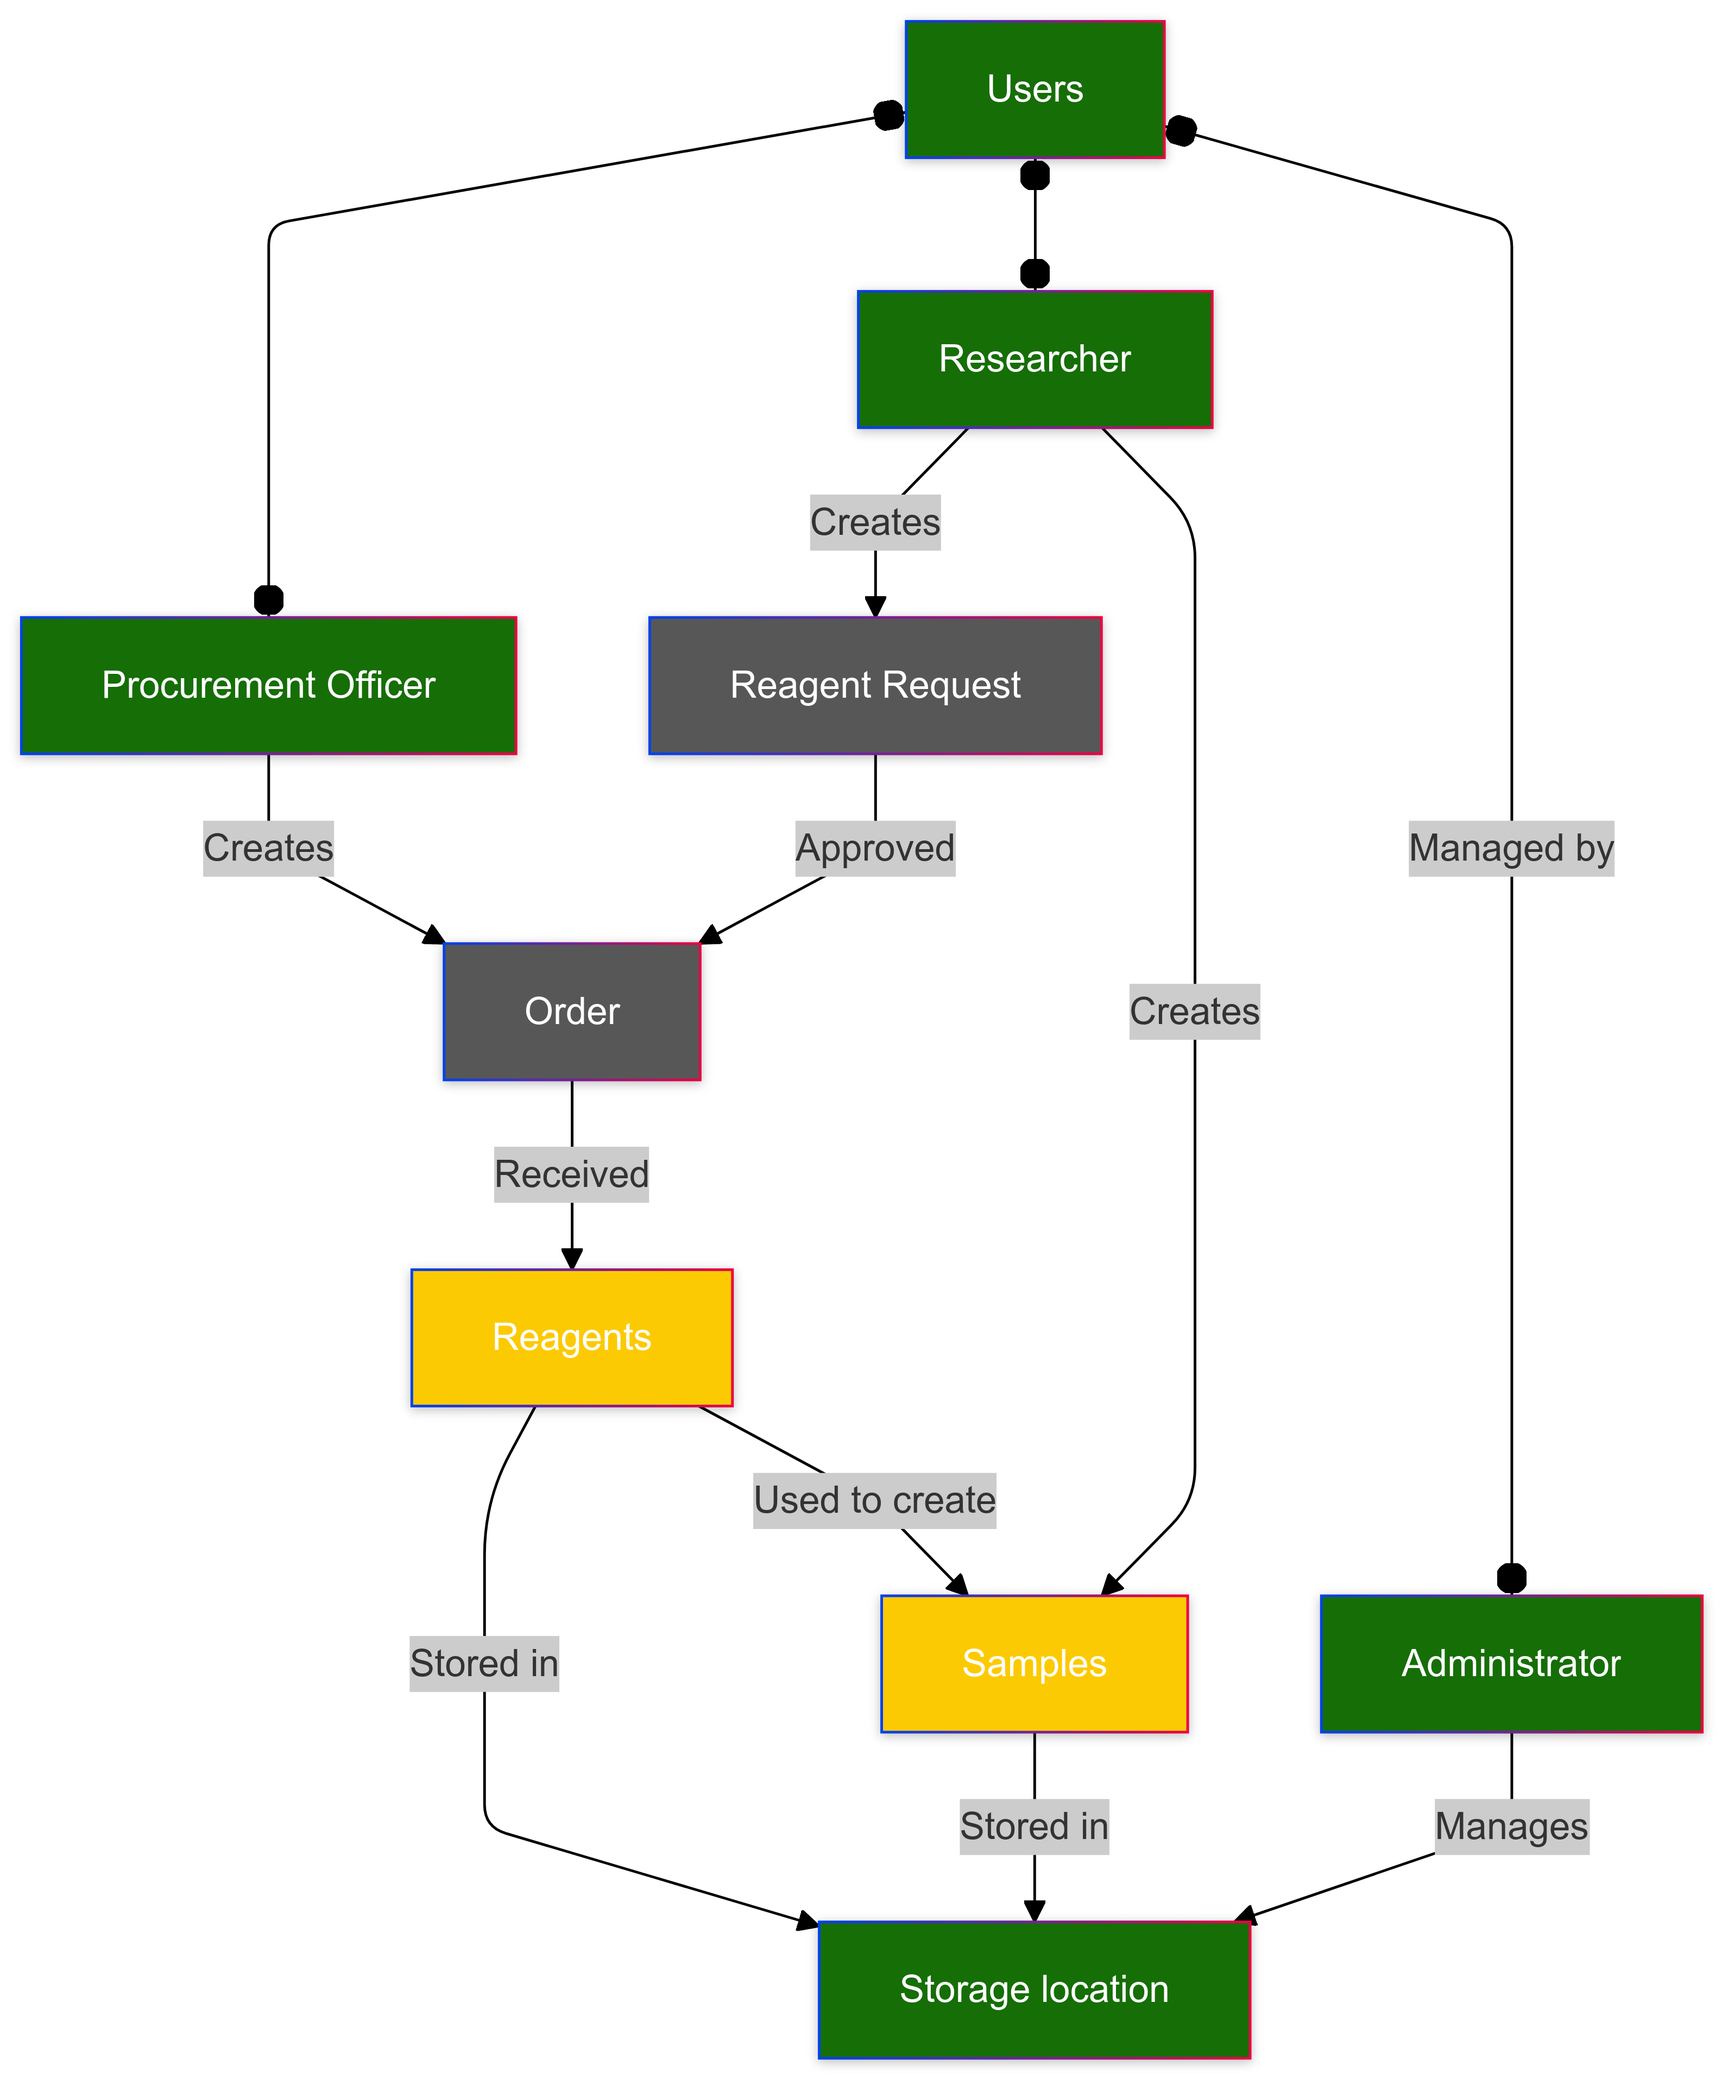
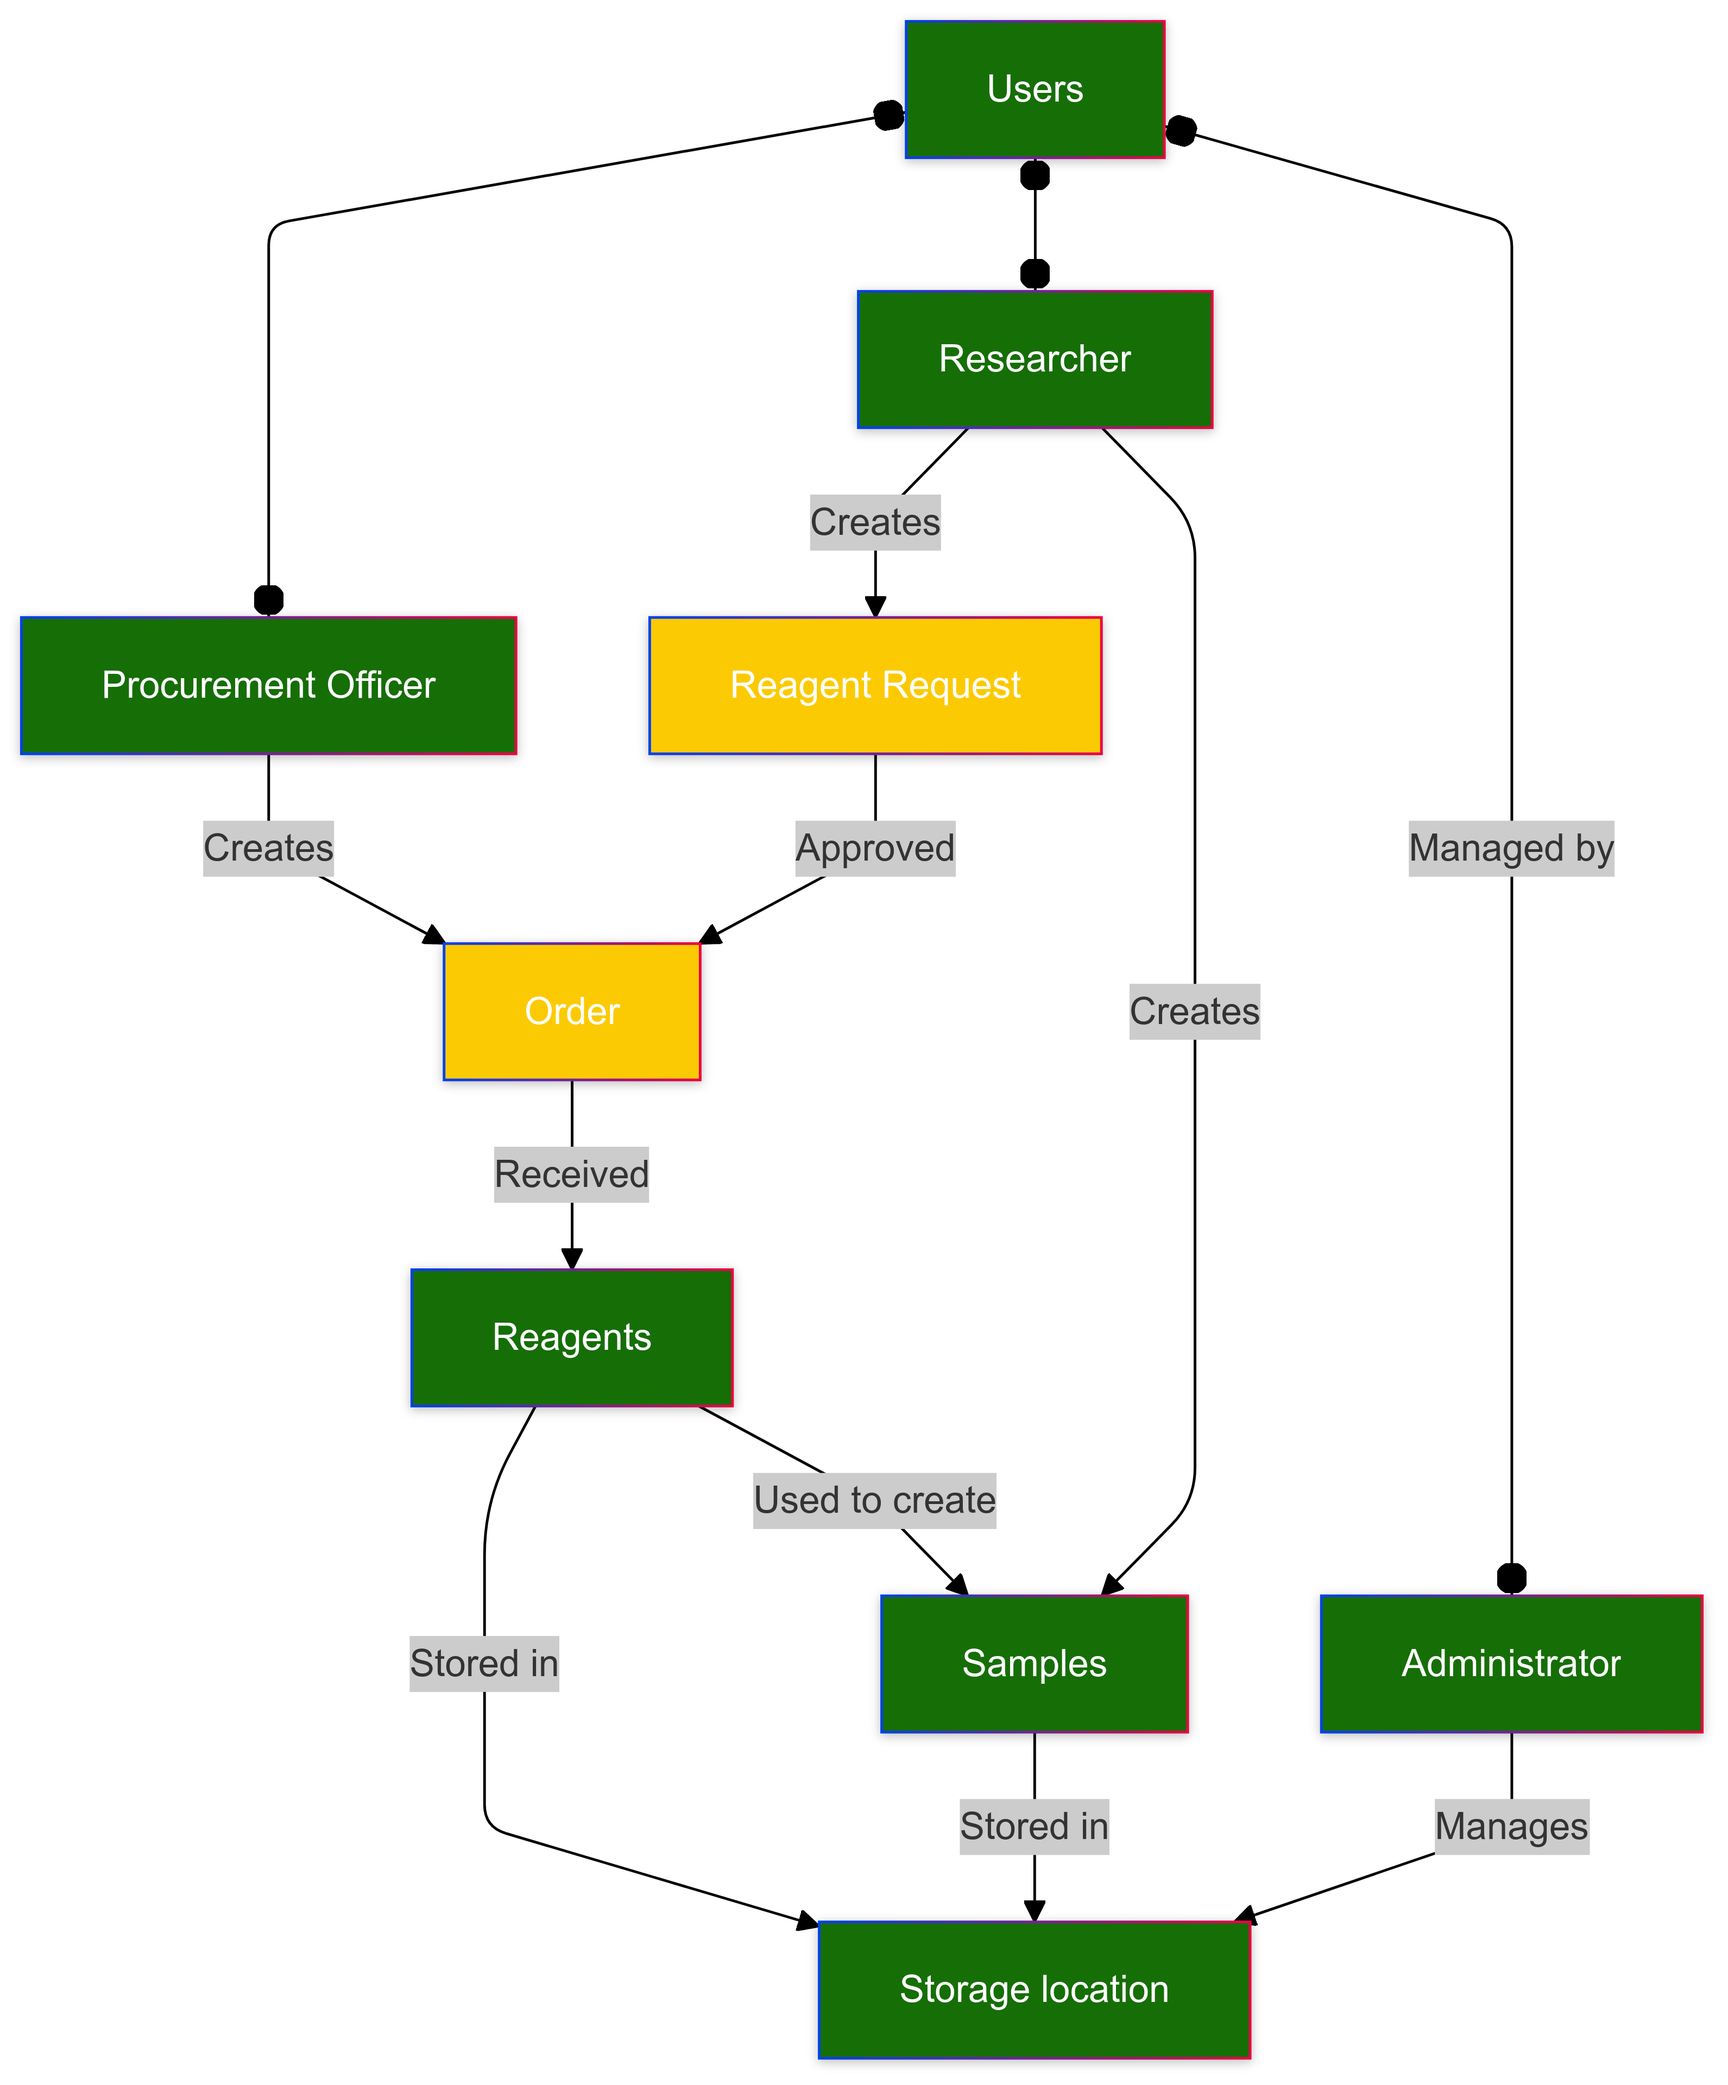
Docs: update diagrams and readme

diff --git a/README.md b/README.md
@@ -45,6 +45,7 @@ This project utilizes the following tools and libraries:
 - **React Router** for handling navigation and protected routes.
 - **TypeScript** for static typing.
 - **MUI** for building responsive, accessible, and modern UI components.
+- **Smiles Drawer** for parsing and rendering SMILES strings into graphical representations of chemical structures.
 - **Vite** for fast builds and hot module replacement during development.
 
 ## Diagrams
@@ -103,9 +104,11 @@ graph LR;
 
     %% Reagents and samples management
     RSM{{Reagents and samples management}} --> UserRSMQ((Any Role))
+    RSM-->UserRSMR((Researcher))
+
     UserRSMQ --> SeeReagentsSamples(See reagents and samples list)
-    UserRSMQ --> AddReagentsSamples(Add reagents in the system)
-    UserRSMQ --> EditReagentsSamples(Edit reagents in the system)
+    UserRSMR --> AddReagentsSamples(Add reagents in the system)
+    UserRSMR --> EditReagentsSamples(Edit reagents in the system)
 
 
 
@@ -126,7 +129,7 @@ graph LR;
     %% Applying role class
     class AdminUM,AdminSM admin;
     class OfficerRRM,OfficerOM officer;
-    class ResearcherRRM researcher;
+    class ResearcherRRM,UserRSMR researcher;
     class User,UserUM,UserSM,UserRSM,UserSMResOfficer,UserRSMQ user;
 
     %% Applying priority class
@@ -181,9 +184,9 @@ classDef green fill:#166e07, color:#ffffff;
 classDef yellow fill:#fcca03, color:#ffffff;
 classDef grey fill:#575757, color:#ffffff;
 
-class U,ADM,RSR,PRCR,SL green;
-class R,S yellow;
-class RR,O grey;
+class U,ADM,RSR,PRCR,SL,R,S green;
+class O,RR yellow;
+class dashboard grey;
 ```
 
 
@@ -192,57 +195,87 @@ class RR,O grey;
 ```mermaid
 erDiagram
 
+    %% Types (Role and Compound as Enum)
+    role {
+        enum Administrator
+        enum ProcurementOfficer
+        enum Researcher
+    }
 
-    reagents {
-        int id
-        varchar name
-        text description
-        text structure_smiles
+    compound {
+        enum Reagent
+        enum Sample
+    }
+
+    %% Tables
+    substance {
+        serial id PK "Unique identifier for each reagent"
+        varchar name "Name of the reagent"
+        text description "Description of the reagent"
+        text structure "Unique structure of the reagent"
+        compound category "Category of the substance, either Reagent or Sample"
+        date expiration_date "Expiration date of the substance"
+        boolean is_expired "Indicates whether the substance is expired"
     }
 
     storage {
-        int id
-        varchar room
-        text description
+        serial id PK "Unique identifier for each storage location"
+        varchar room "Room where reagents are stored"
+        text description "Description of the storage room"
     }
 
     storage_location {
-        int id
-        int room_id
-        varchar location
+        serial id PK "Unique identifier for each storage location"
+        integer room_id FK "References the storage room"
+        varchar location "Specific location within the storage room"
     }
 
     storage_content {
-        int id
-        int room_id
-        int location_id
-        int substance_id
+        serial id PK "Unique identifier for each storage content entry"
+        integer location_id FK "References the specific location within the storage room"
+        integer substance_id FK "References the substance"
+        integer quantity_left "Quantity of the substance left in stock"
+        varchar unit "The amount of space a substance occupies"
+        numeric price_per_unit "Price of substance per unit"
     }
 
     users {
-        int id
-        varchar username
-        varchar first_name
-        varchar last_name
-        varchar email
-        char password_hash
-        role role
-        timestamp created_at
-        timestamptz last_login
+        serial id PK "Unique identifier for each user"
+        varchar username "Unique username for each user"
+        varchar first_name "First name of the user"
+        varchar last_name "Last name of the user"
+        varchar email "Email address of the user"
+        char password_hash "Hashed password of the user"
+        role role "Role of the user in the system"
+        timestamp created_at "Timestamp when the user was created"
+        timestamptz last_login "Timestamp of the user's last login"
     }
 
-
-    role {
-        type Administrator
-        type ProcurementOfficer
-        type Researcher
+    reagent {
+        integer substance_id PK, FK "Reference to specific chemical substance"
+        varchar cas_number "CAS number of the reagent"
+        varchar producer "Producer of the reagent"
+        integer catalog_id "ID of the reagent in the producer's catalog"
+        text catalog_link "Link to the catalog page for the reagent"
     }
 
-    storage ||--o{ storage_location : has
-    storage_content ||--o{ storage_location : references
-    storage_content ||--o{ reagents : contains
-    storage ||--o{ storage_content : "stores in"
-    users }o--|| role : has
-    users }o--|| storage : "has access to"
+    sample {
+        integer substance_id PK, FK "Reference to specific chemical substance"
+        integer added_substance_id PK, FK "Added chemical to the given sample"
+    }
+
+    %% Relationships
+    storage ||--o{ storage_location : "has many"
+    storage_location ||--o{ storage_content : "contains"
+    storage_content ||--o| substance : "stores"
+    substance ||--o| compound : "is categorized as"
+
+    substance ||--|{ reagent : "is"
+    substance ||--|{ sample : "is"
+    sample ||--o| substance : "has added"
+
+    %% Users (not related in the schema but included for completeness)
+    users ||--|{ role : "has role"
+    users ||--|{ storage: "has access to"
 ```
 
